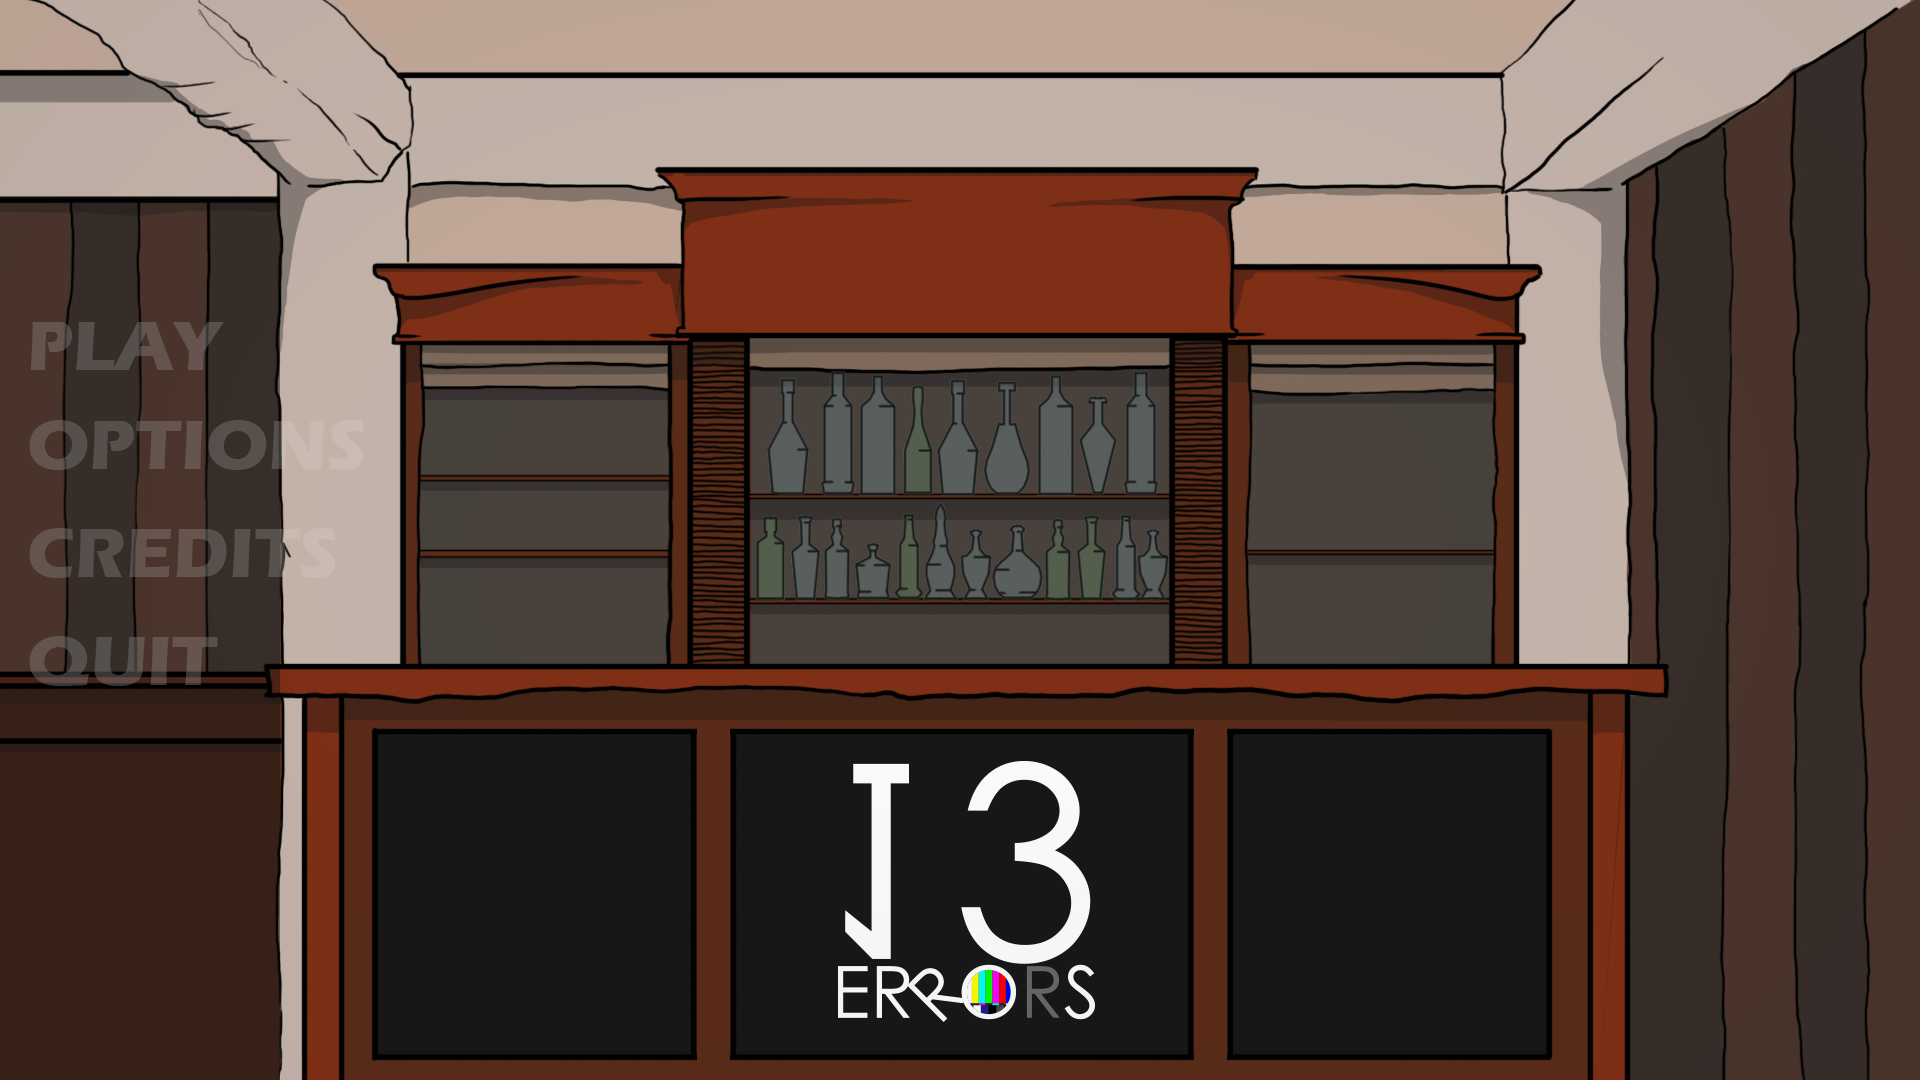
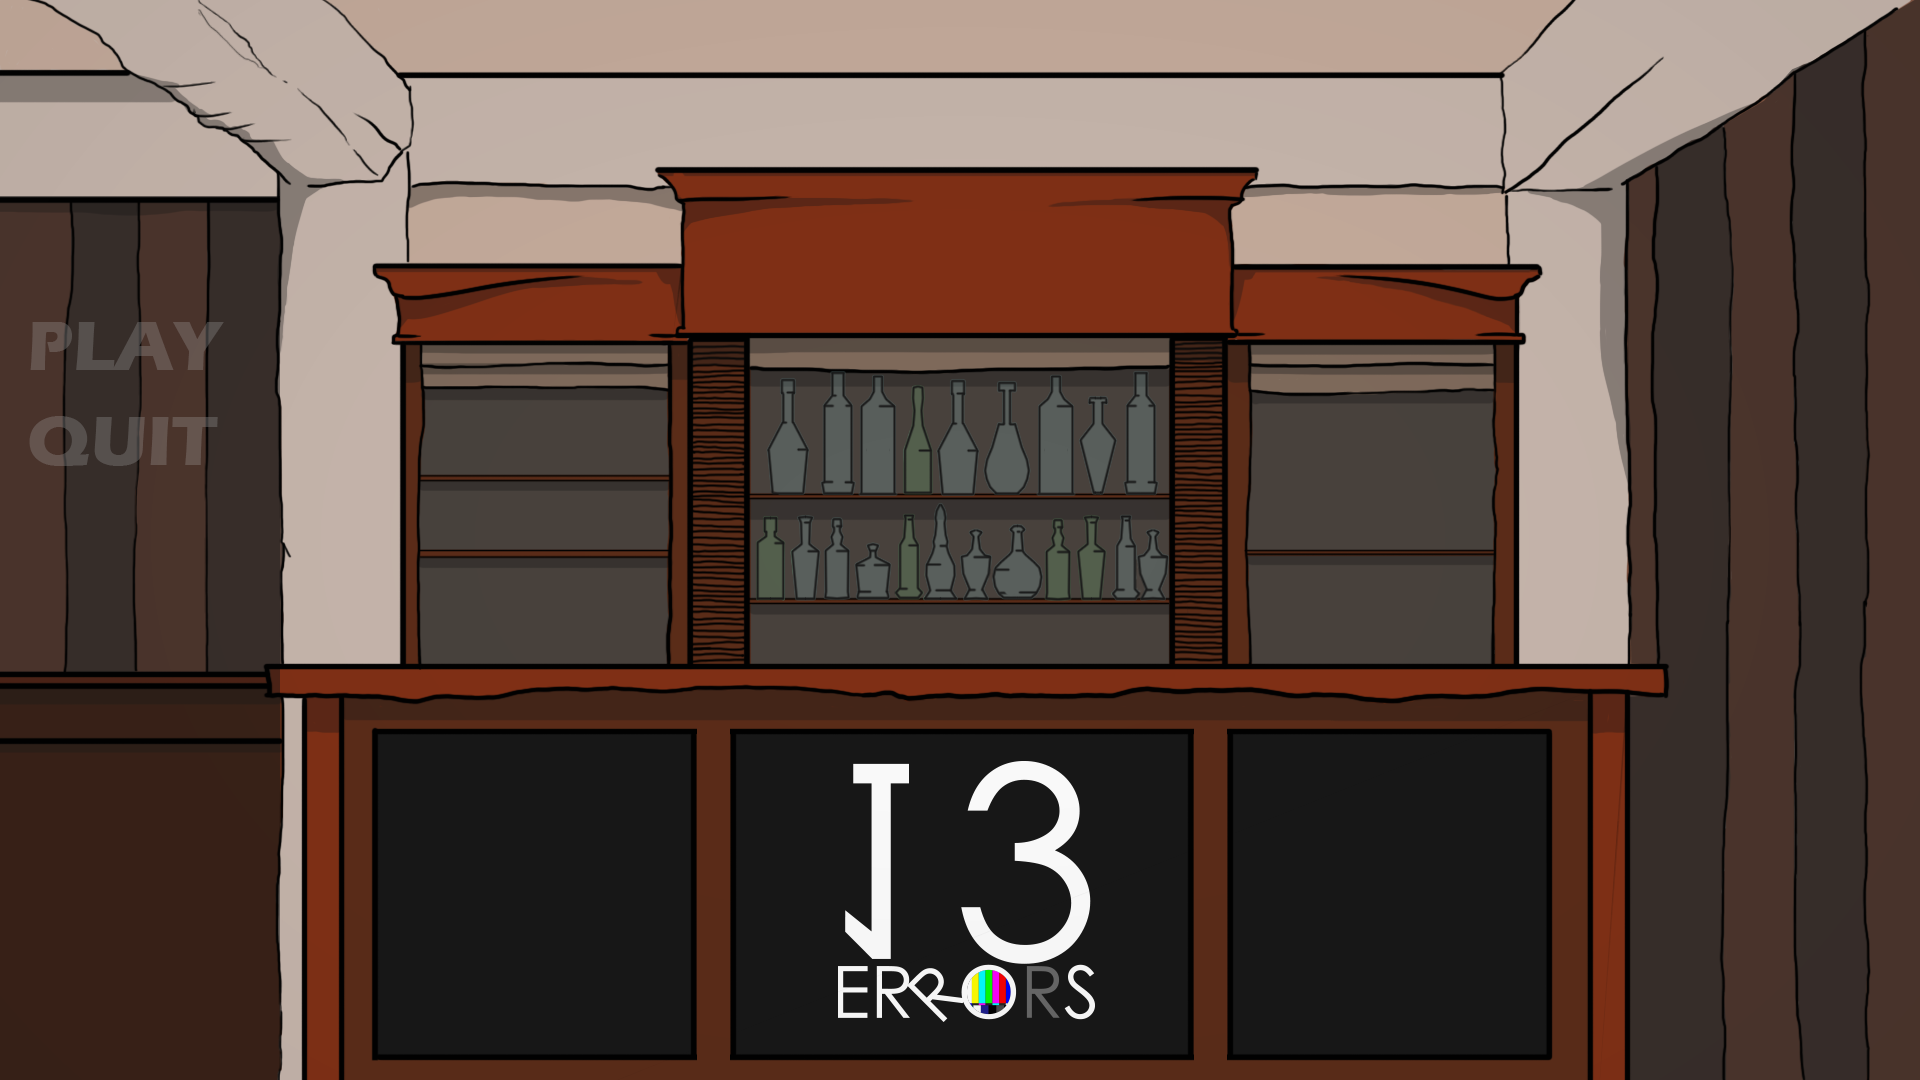
Make every button work on the main menu.

Changed region(s): [[0.0, 0.4889, 0.1562, 0.55], [0.0312, 0.3667, 0.1562, 0.4583], [0.0, 0.5806, 0.125, 0.6417]]

diff --git a/Assets/Scripts/MainMenu.cs b/Assets/Scripts/MainMenu.cs
@@ -9,4 +9,10 @@ public class MainMenu : MonoBehaviour
     {
         SceneManager.LoadScene(SceneManager.GetActiveScene().buildIndex + 1);
     }
+
+    public void QuitGame()
+    {
+        Application.Quit();
+        Debug.Log("Quit Game");
+    }
 }
